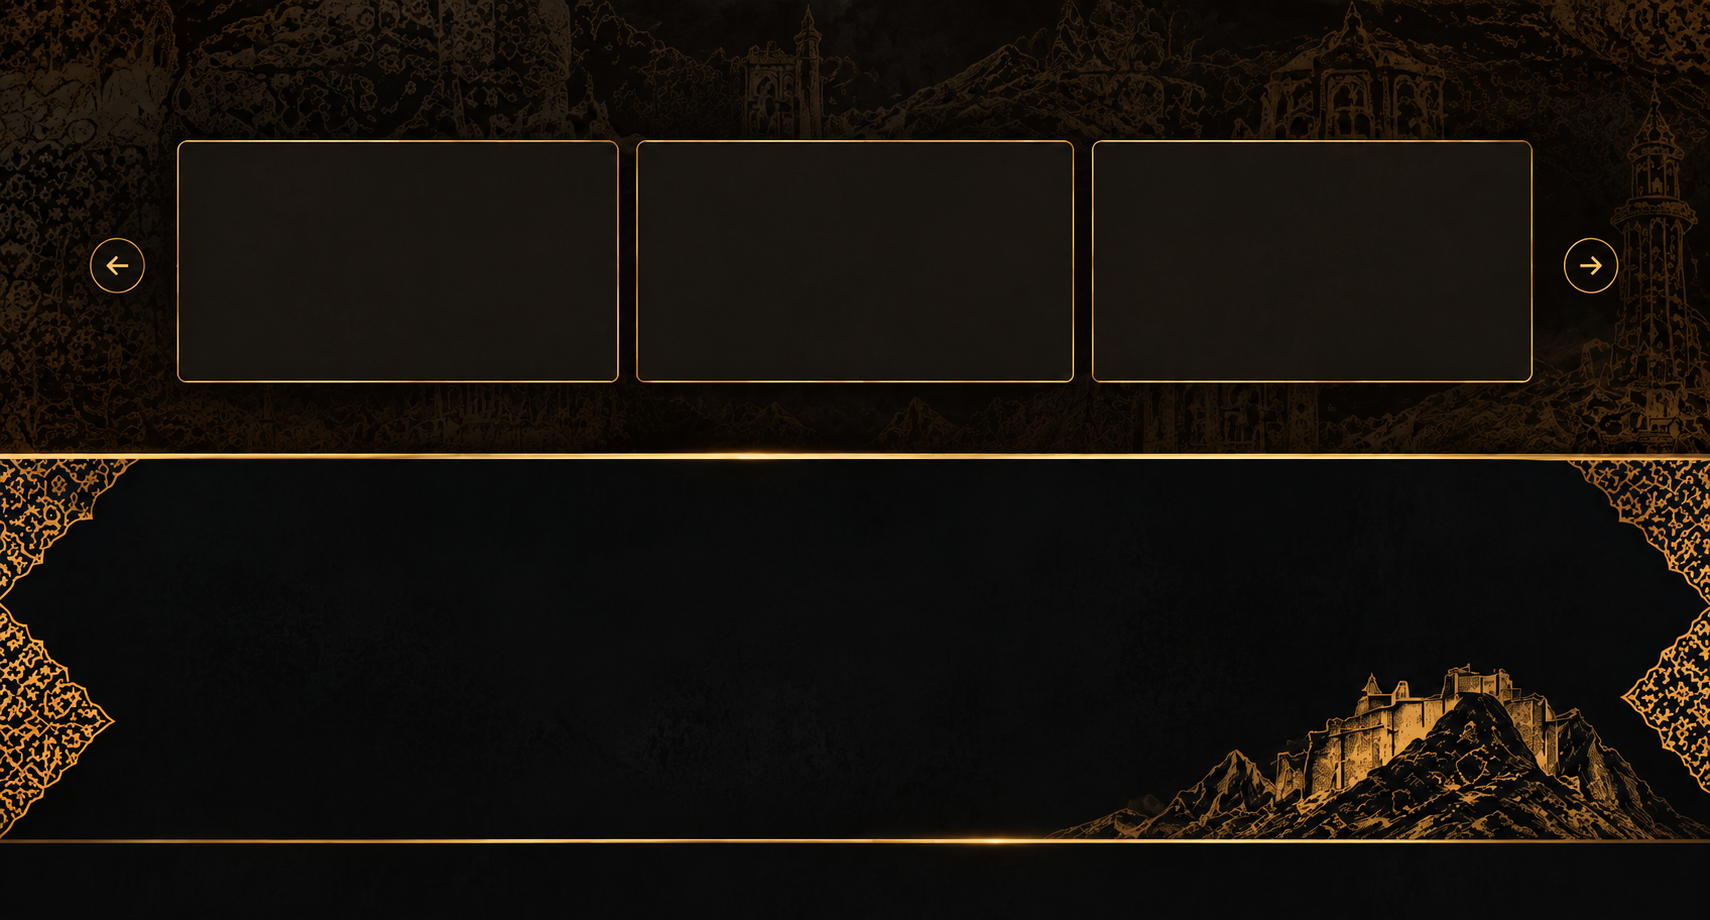
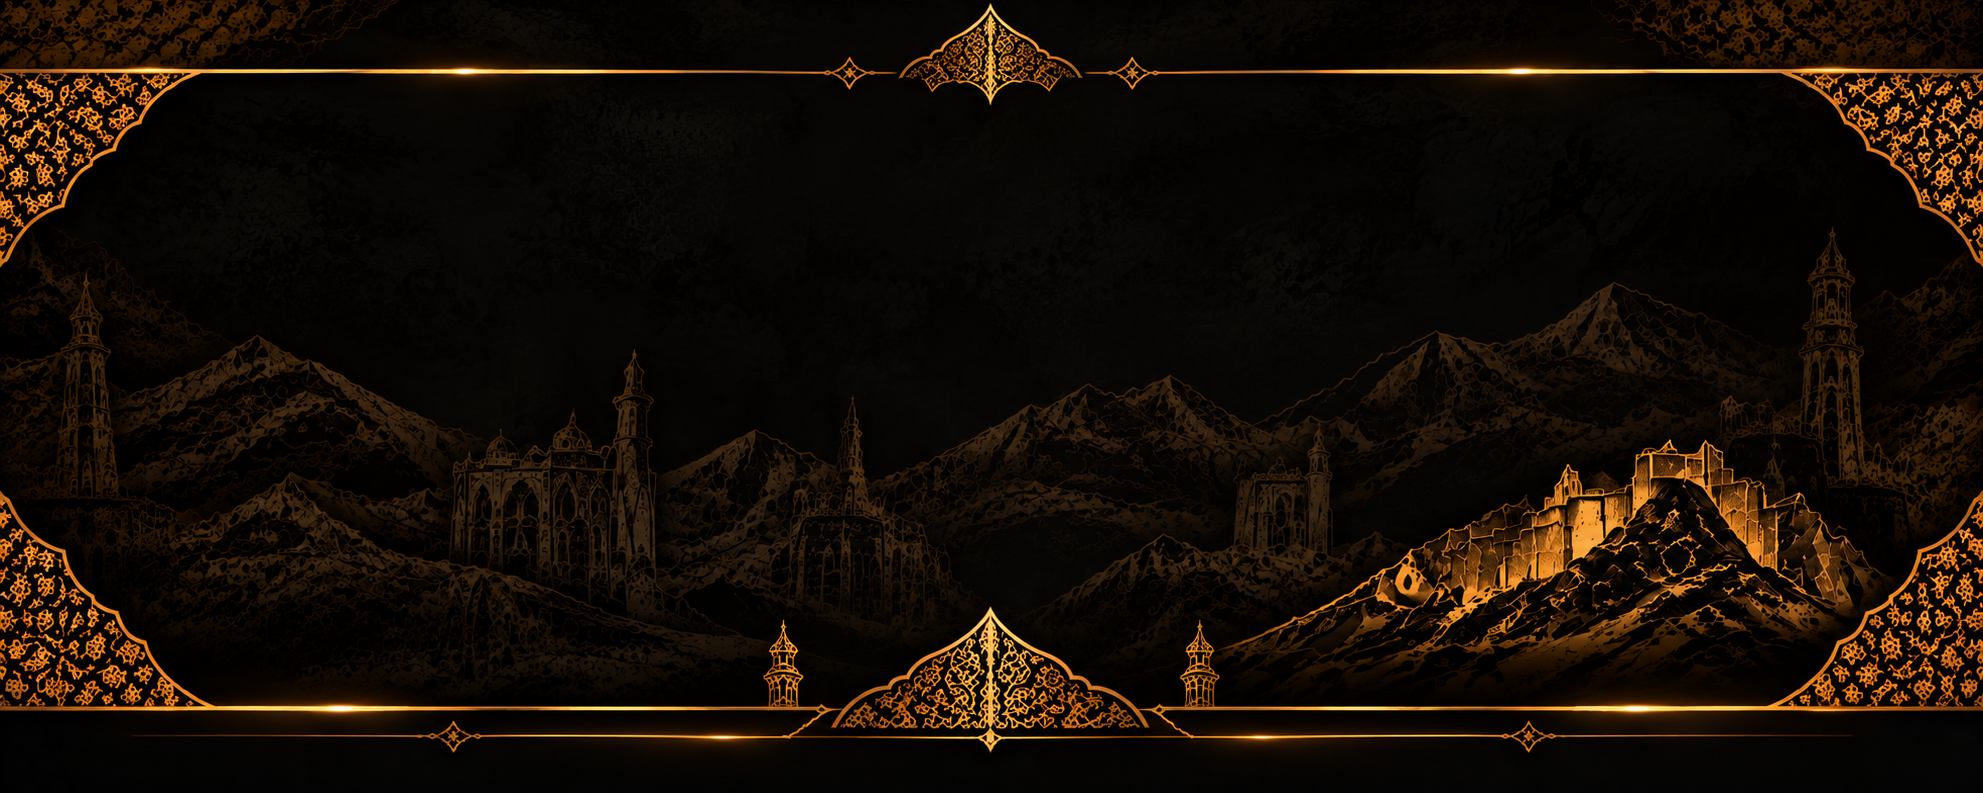
Update footer desktop background and adjust layout for full width

diff --git a/src/components/Footer.tsx b/src/components/Footer.tsx
@@ -25,18 +25,17 @@ export function Footer() {
 
   return (
     <footer className="relative w-full bg-[#050505] min-h-[600px] md:min-h-[800px] flex flex-col justify-end pb-[10%] xl:pb-[5%] pt-10">
-      {/* Background Image constrained to max-w-[1400px] to perfectly match the grid on wide screens */}
-      <div className="absolute inset-0 w-full h-full flex justify-center z-0 pointer-events-none">
+      {/* Full-width Background Image */}
+      <div className="absolute inset-0 w-full h-full z-0 pointer-events-none">
         <div 
-          className="w-full max-w-[1400px] h-full bg-contain lg:bg-[length:100%_auto] bg-top bg-no-repeat bg-[url('/footer_phone_size_bg.png')] md:bg-[url('/footer_bg.png')]"
+          className="w-full h-full bg-cover bg-center bg-no-repeat bg-[url('/footer_phone_size_bg.png')] md:bg-[url('/footer_bg.png')]"
         />
       </div>
 
       <div className="container mx-auto px-6 md:px-12 relative z-10 max-w-[1400px] flex flex-col h-full">
         
-        {/* Transparent grid to hold the review text over the drawn boxes */}
-        {/* pt-[28%] uses percentage to scale perfectly with the 1400px background image width */}
-        <div className="grid grid-cols-1 md:grid-cols-3 gap-8 md:gap-12 lg:gap-16 mb-24 pt-[15vw] md:pt-[25%] lg:pt-[26%] xl:pt-[29%]">
+        {/* Premium review cards grid */}
+        <div className="grid grid-cols-1 md:grid-cols-3 gap-8 md:gap-12 lg:gap-16 mb-24 pt-[15vw] md:pt-[15%]">
           {reviews.map((review, index) => (
             <motion.div 
               key={index} 
@@ -44,7 +43,7 @@ export function Footer() {
               whileInView={{ opacity: 1, y: 0 }}
               viewport={{ once: true }}
               transition={{ duration: 0.8, delay: index * 0.2 }}
-              className="flex flex-col items-center justify-center text-center px-4 lg:px-8 py-8 lg:py-0 bg-black/40 lg:bg-transparent backdrop-blur-sm lg:backdrop-blur-none rounded-2xl lg:rounded-none border border-[#E5C07B]/10 lg:border-none"
+              className="flex flex-col items-center justify-center text-center px-6 py-10 lg:px-10 lg:py-12 bg-black/60 backdrop-blur-md rounded-2xl border border-[#E5C07B]/20 shadow-[0_8px_32px_rgba(0,0,0,0.5)] hover:border-[#E5C07B]/40 hover:shadow-[0_8px_32px_rgba(229,192,123,0.1)] transition-all duration-300"
             >
               {/* Stars */}
               <div className="flex gap-1 mb-6 text-[#E5C07B]">
